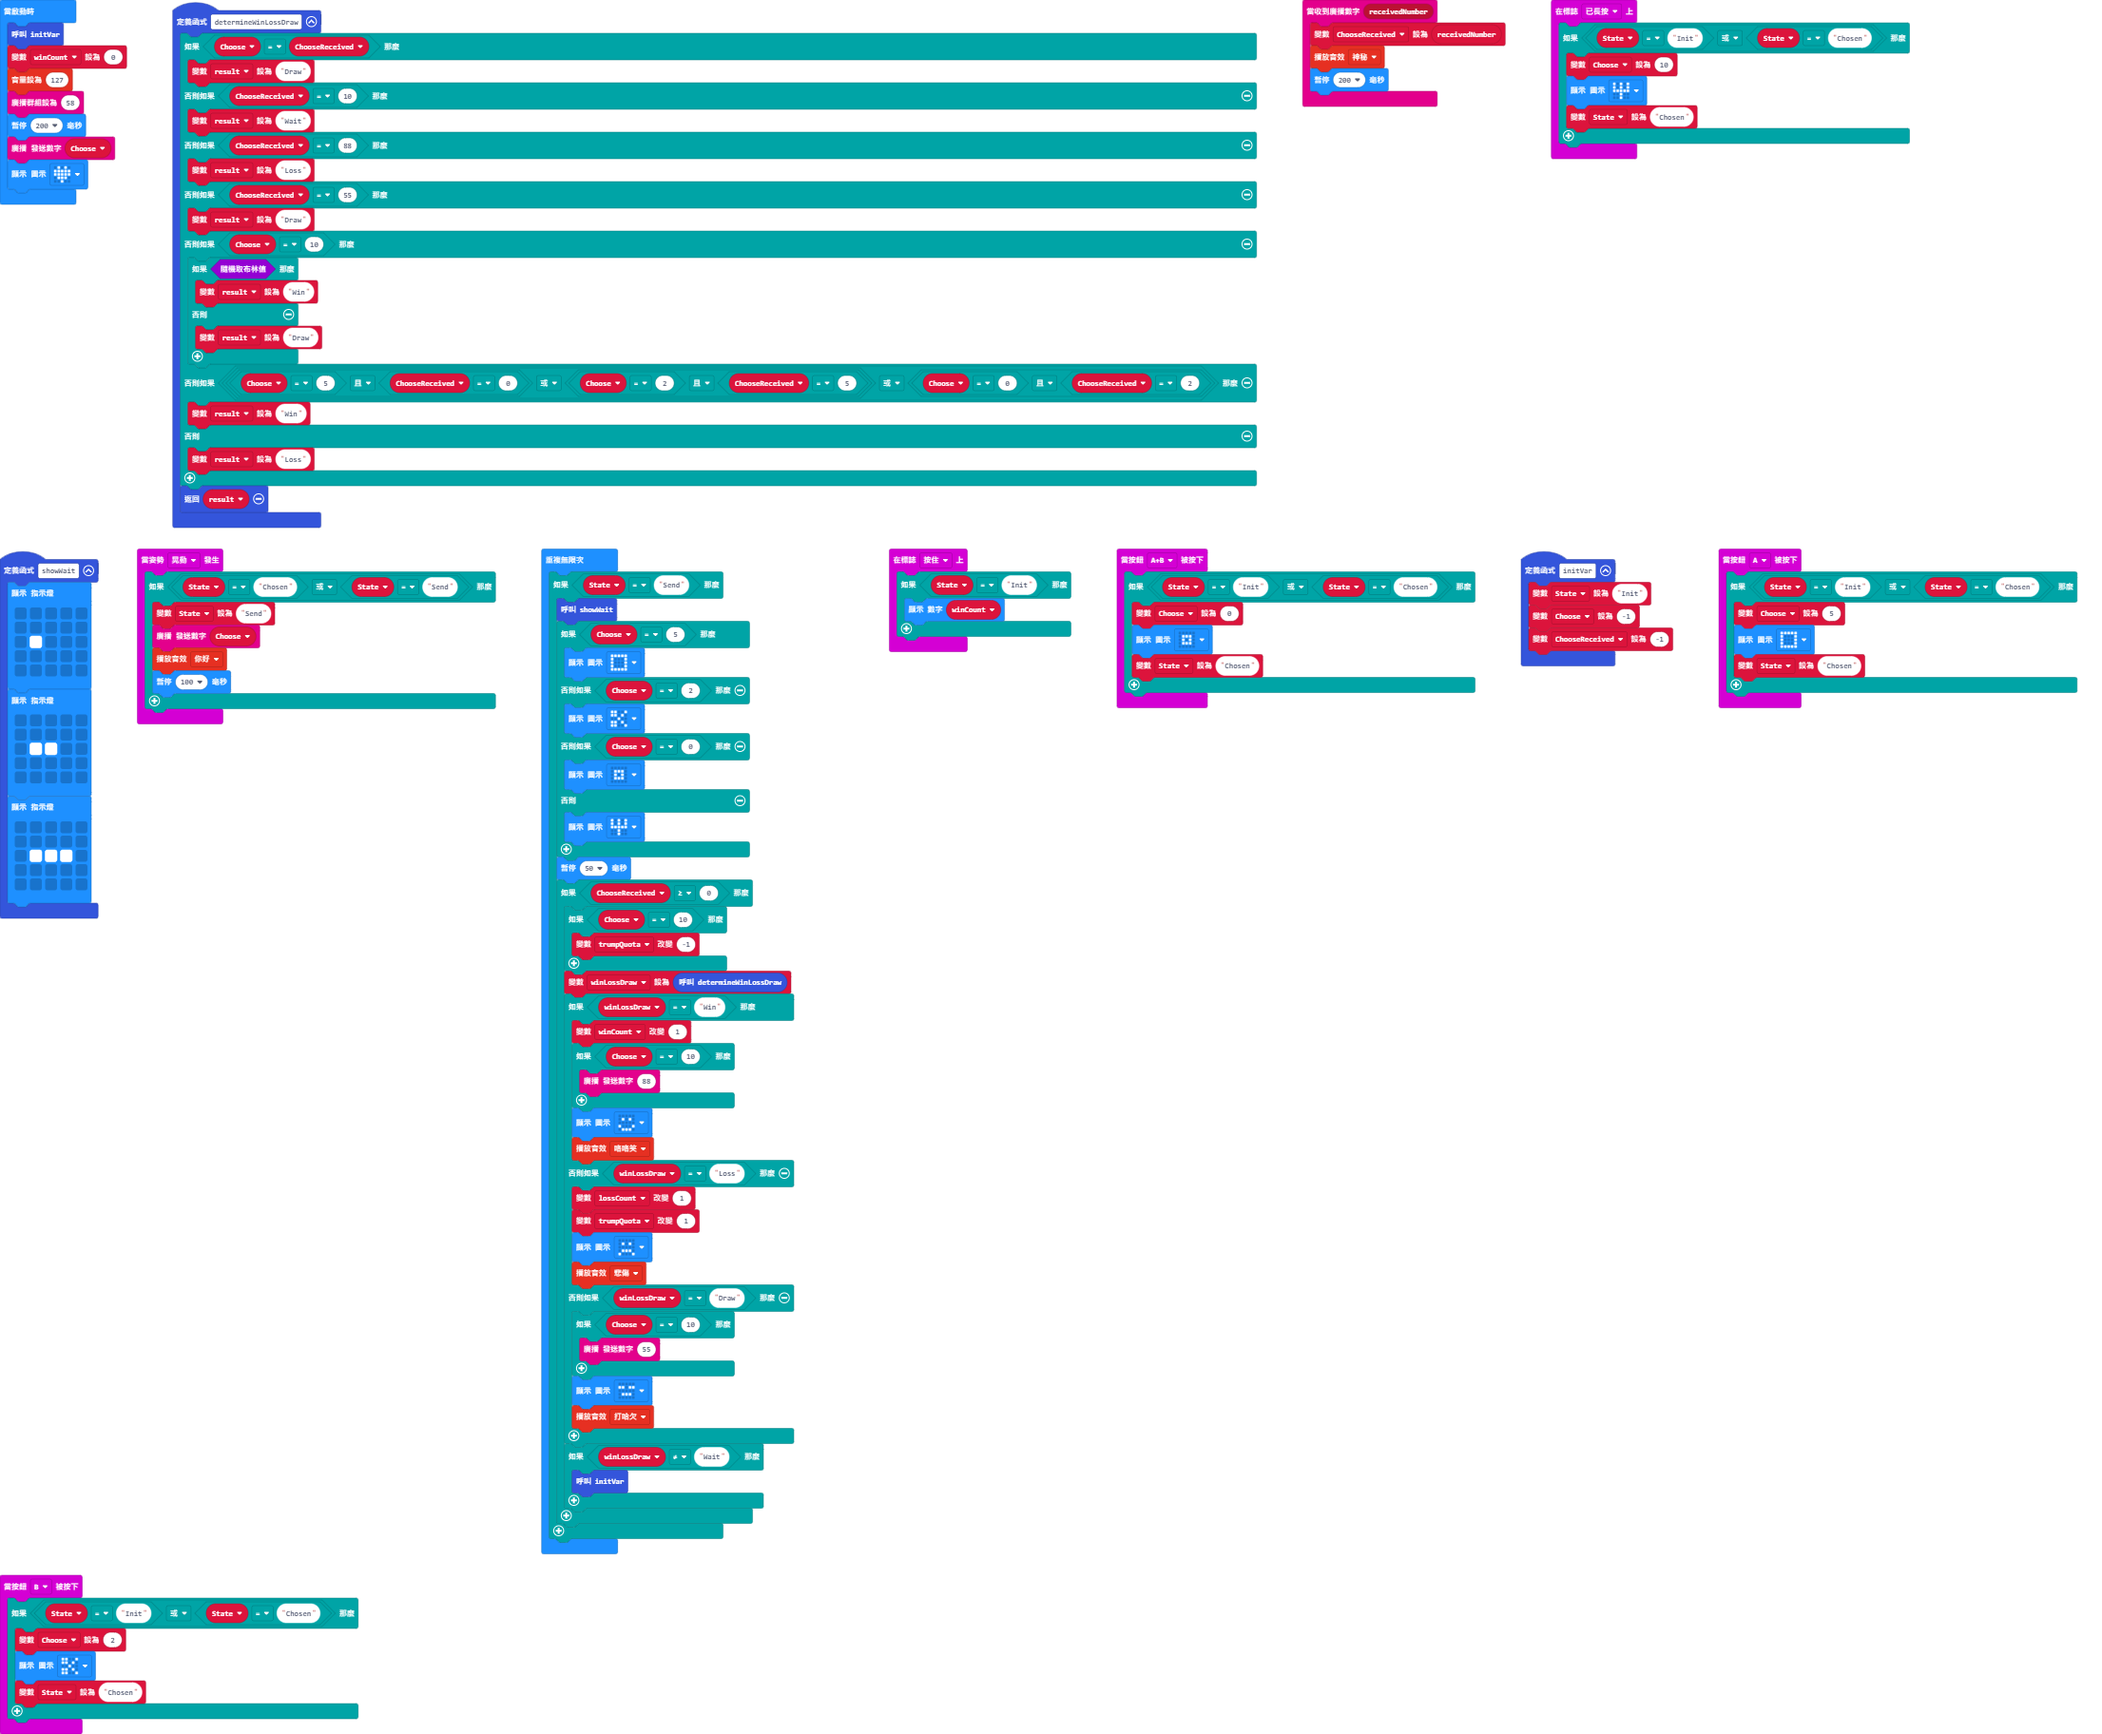
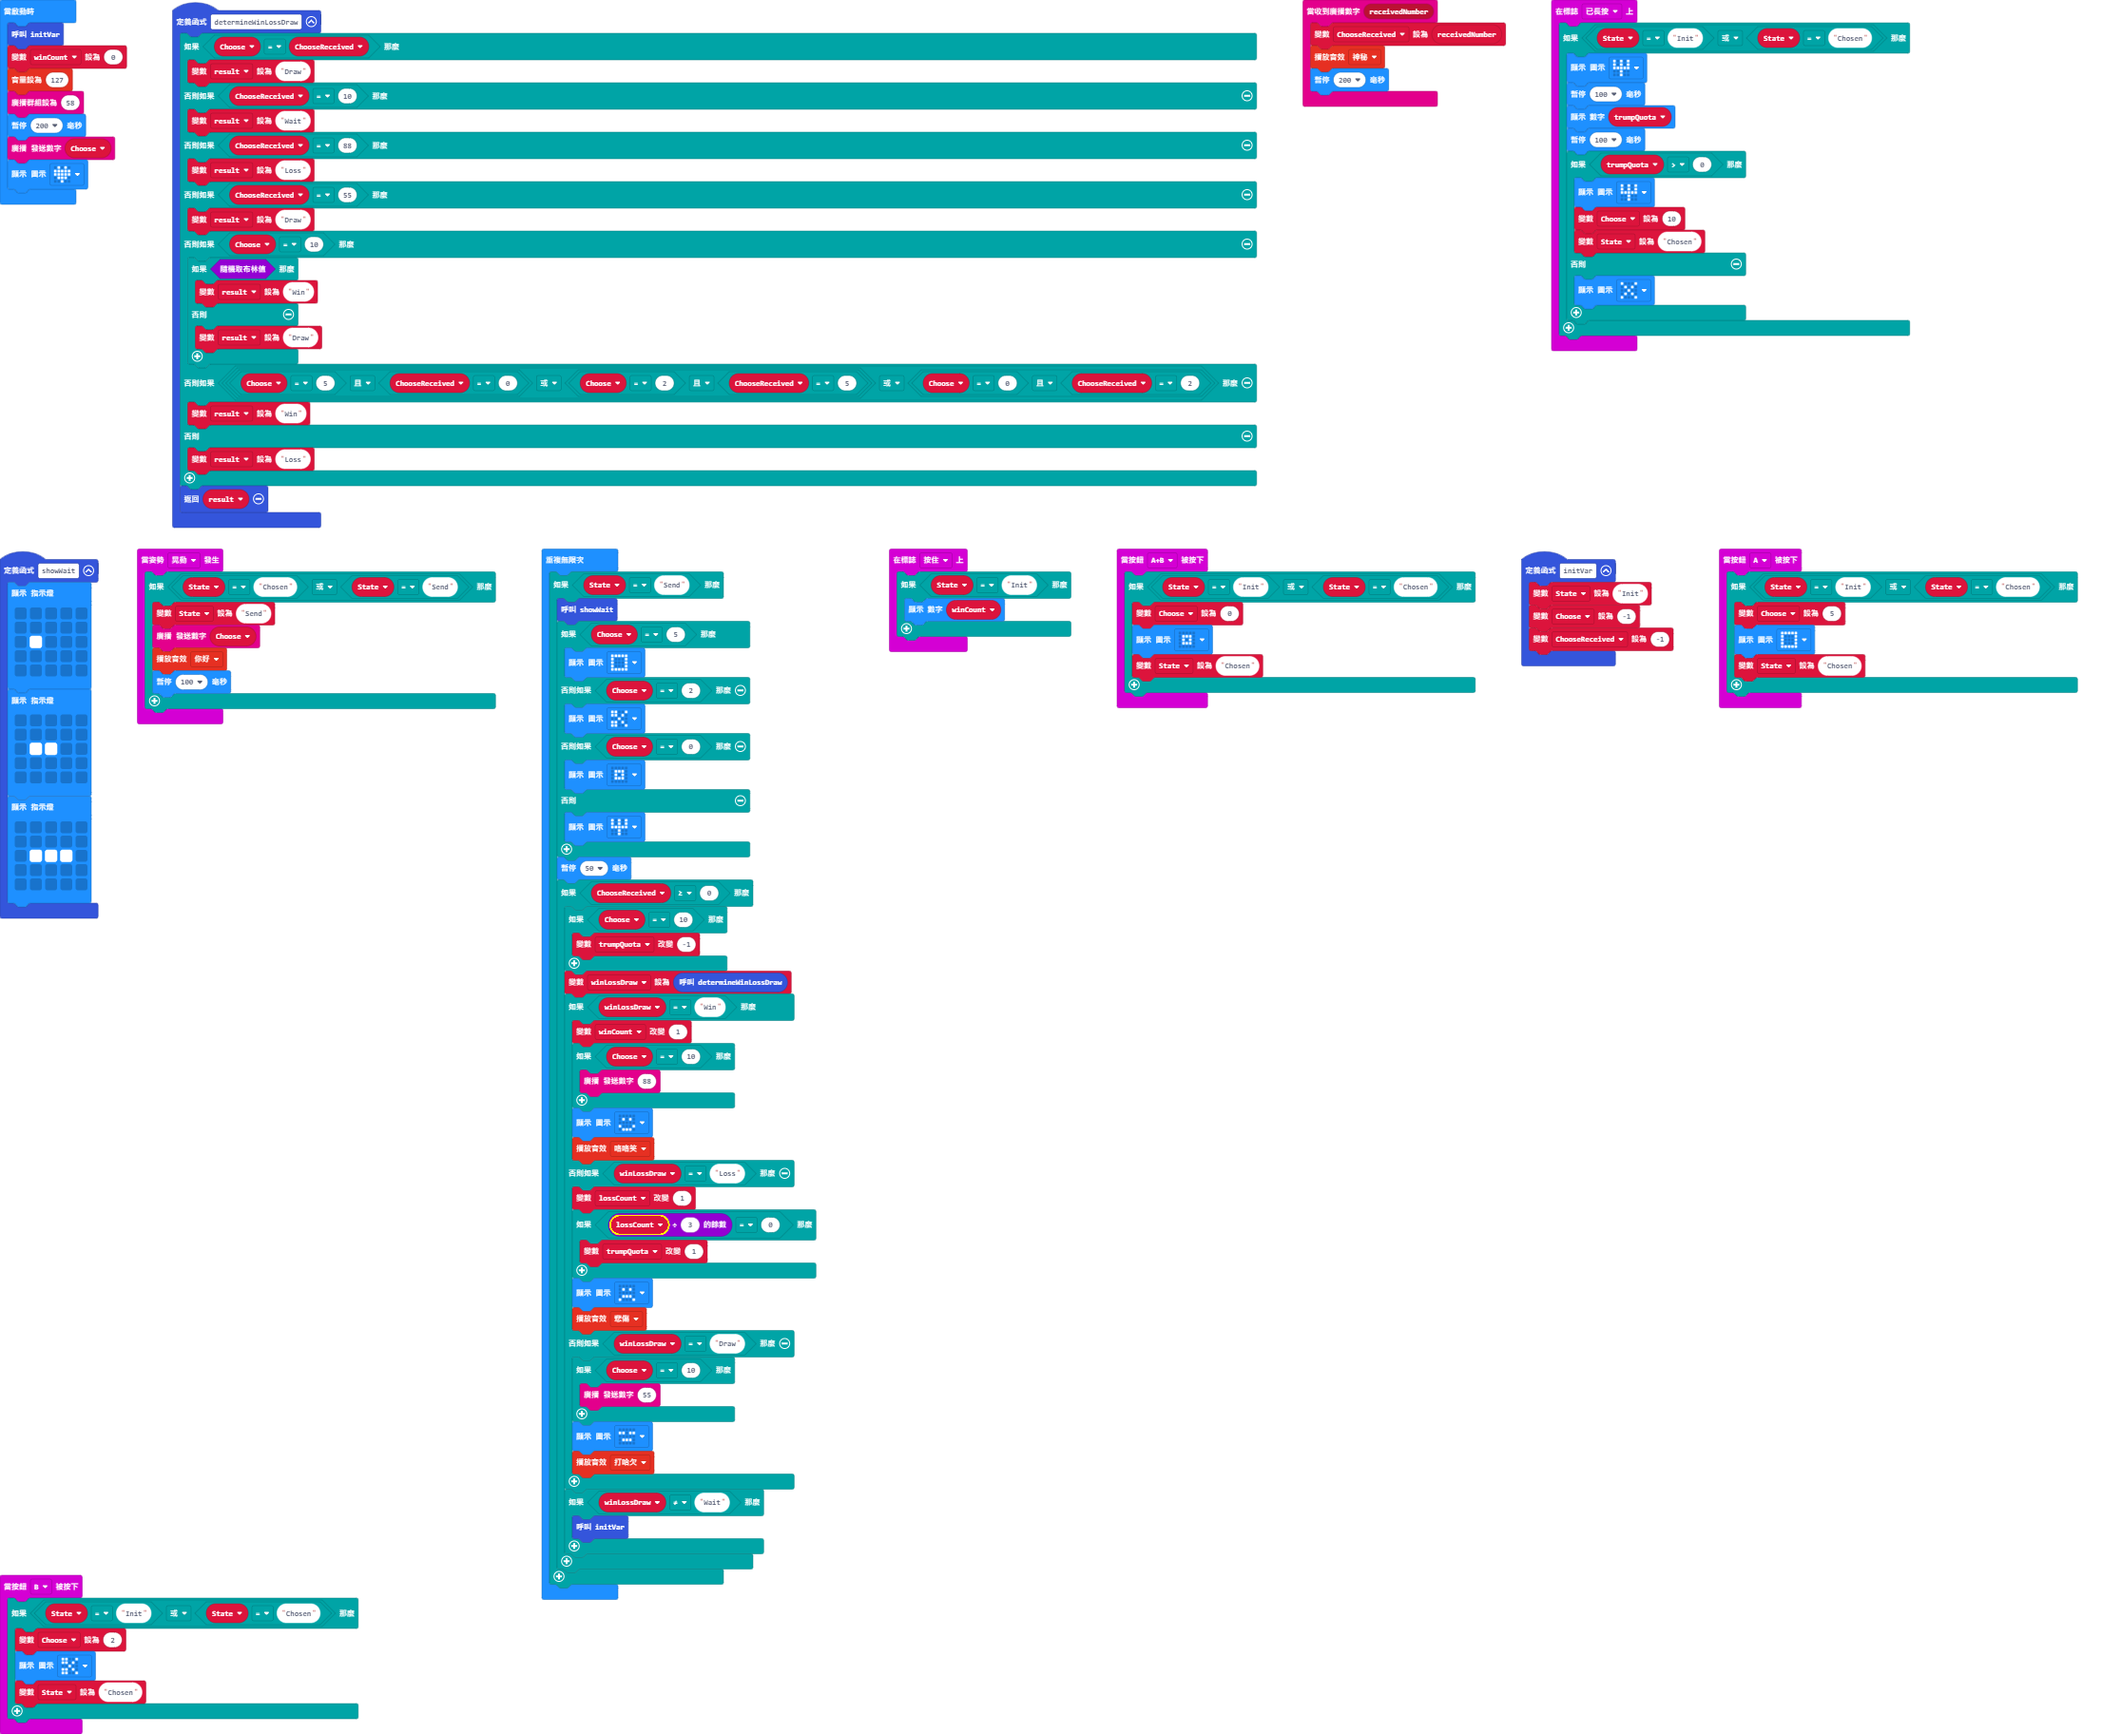
Add logic mod%3 for trumpQuota

diff --git a/main.ts b/main.ts
@@ -33,9 +33,18 @@ radio.onReceivedNumber(function on_received_number(receivedNumber: number) {
 input.onLogoEvent(TouchButtonEvent.LongPressed, function on_logo_long_pressed() {
     
     if (State == "Init" || State == "Chosen") {
-        Choose = 10
         basic.showIcon(IconNames.Pitchfork)
-        State = "Chosen"
+        basic.pause(100)
+        basic.showNumber(trumpQuota)
+        basic.pause(100)
+        if (trumpQuota > 0) {
+            basic.showIcon(IconNames.Pitchfork)
+            Choose = 10
+            State = "Chosen"
+        } else {
+            basic.showIcon(IconNames.No)
+        }
+        
     }
     
 })
@@ -159,7 +168,10 @@ basic.forever(function on_forever() {
                 soundExpression.giggle.play()
             } else if (winLossDraw == "Loss") {
                 lossCount += 1
-                trumpQuota += 1
+                if (lossCount % 3 == 0) {
+                    trumpQuota += 1
+                }
+                
                 basic.showIcon(IconNames.Sad)
                 soundExpression.sad.play()
             } else if (winLossDraw == "Draw") {

diff --git a/main.py b/main.py
@@ -29,9 +29,16 @@ radio.on_received_number(on_received_number)
 def on_logo_long_pressed():
     global Choose, State
     if State == "Init" or State == "Chosen":
-        Choose = 10
         basic.show_icon(IconNames.PITCHFORK)
-        State = "Chosen"
+        basic.pause(100)
+        basic.show_number(trumpQuota)
+        basic.pause(100)
+        if trumpQuota > 0:
+            basic.show_icon(IconNames.PITCHFORK)
+            Choose = 10
+            State = "Chosen"
+        else:
+            basic.show_icon(IconNames.NO)
 input.on_logo_event(TouchButtonEvent.LONG_PRESSED, on_logo_long_pressed)
 
 def showWait():
@@ -142,7 +149,8 @@ def on_forever():
                 soundExpression.giggle.play()
             elif winLossDraw == "Loss":
                 lossCount += 1
-                trumpQuota += 1
+                if lossCount % 3 == 0:
+                    trumpQuota += 1
                 basic.show_icon(IconNames.SAD)
                 soundExpression.sad.play()
             elif winLossDraw == "Draw":
